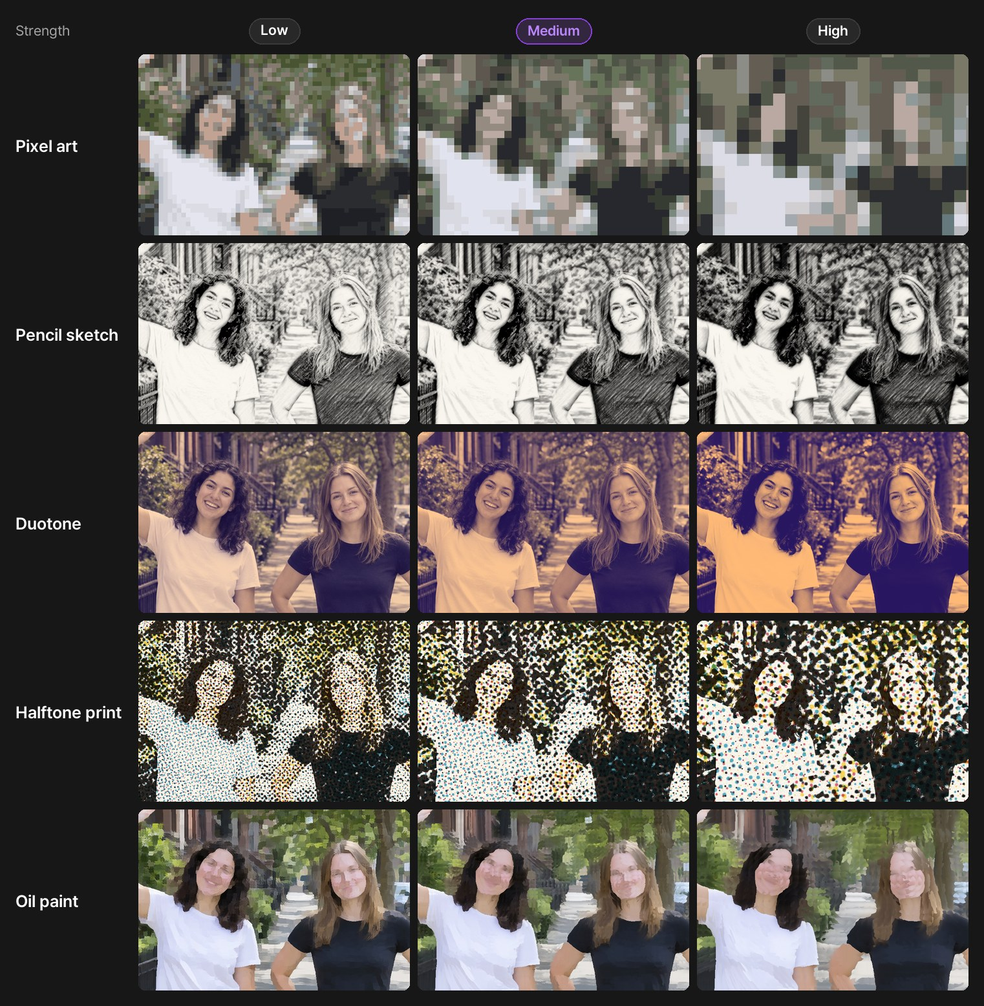
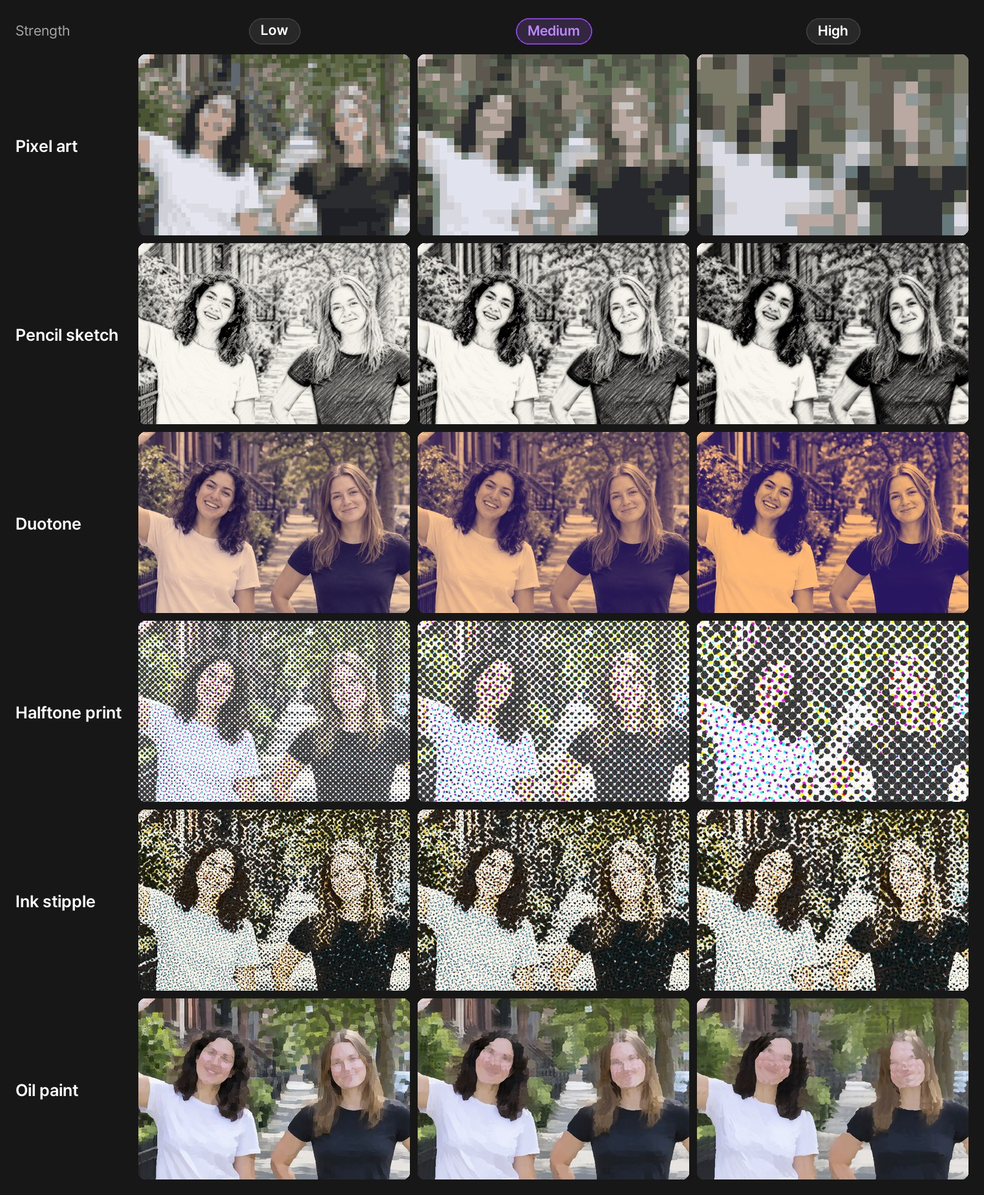
docs: README 그림을 1.2.0 결과로 다시 만듦 — 효과 여섯 가지(잉크 점묘 추가), 스크립트는 효과 목록을 manifest 에서 읽음
- hero · strength(ko · en) · compare.gif 를 같은 이름으로 다시 만듦
- README 의 "효과 다섯 가지" · "여섯 조각" 문장을 여섯 가지 · 일곱 조각으로 (ko · en)

Claude-Session: https://claude.ai/code/session_01MqMqamUHgGvP4ikDAYkvPx

diff --git a/docs/scripts/make_visuals.py b/docs/scripts/make_visuals.py
@@ -5,6 +5,7 @@
 언어별 그림(hero.jpg · strength.jpg)은 docs/<언어>/ 에, 글자 없는 움짤(compare.gif)은 두 언어가 같이 쓰도록 docs/ 에 쓴다.
 움짤은 언어와 상관없으니 한 번만 만들면 된다.
 """
+import json
 import math
 import os
 import sys
@@ -14,19 +15,22 @@ from PIL import Image, ImageDraw
 sys.path.insert(0, os.path.dirname(os.path.abspath(__file__)))
 import common as C  # noqa: E402
 
+ROOT = os.path.abspath(os.path.join(os.path.dirname(__file__), "..", ".."))
 work, docs, lang = sys.argv[1:4]
 fx_dir = os.path.join(work, "fx")
 photo_dir = os.path.join(work, "photos")
 out = os.path.join(docs, lang)
 os.makedirs(out, exist_ok=True)
 
-EFFECTS = ["pixel", "sketch", "duotone", "halftone", "oil"]
+#: 효과 차례 · 한국어 이름은 manifest.json 의 알약 그대로(효과를 더하거나 빼면 따라간다). 영어 이름은 README 영어판과 같게.
+_settings = {s["id"]: s for s in json.load(open(os.path.join(ROOT, "manifest.json"), encoding="utf-8"))["nodes"][0]["settings"]}
+EFFECTS = [o["value"] for o in _settings["effect"]["options"]]
 NAMES = {
-    "ko": {"original": "원본", "pixel": "픽셀아트", "sketch": "연필 스케치", "duotone": "듀오톤", "halftone": "망점 인쇄",
-           "oil": "유화", "low": "약하게", "medium": "보통", "high": "강하게", "strength": "세기"},
+    "ko": {"original": "원본", "strength": "세기",
+           **{o["value"]: o["label"] for o in _settings["effect"]["options"] + _settings["strength"]["options"]}},
     "en": {"original": "Original", "pixel": "Pixel art", "sketch": "Pencil sketch", "duotone": "Duotone",
-           "halftone": "Halftone print", "oil": "Oil paint", "low": "Low", "medium": "Medium", "high": "High",
-           "strength": "Strength"},
+           "halftone": "Halftone print", "stipple": "Ink stipple", "oil": "Oil paint", "low": "Low", "medium": "Medium",
+           "high": "High", "strength": "Strength"},
 }[lang]
 
 
@@ -38,28 +42,28 @@ def orig(photo):
     return Image.open(os.path.join(photo_dir, f"{photo}.jpg")).convert("RGB")
 
 
-# ── 대표 그림: 공원 사진 한 장을 여섯 조각으로(원본 + 효과 다섯, 세기 보통) ─────────────
+# ── 대표 그림: 공원 사진 한 장을 세로 조각으로(원본 + 효과마다 한 조각, 세기 보통) ─────────────
 def hero():
     src = orig("park")
     imgs = [src] + [res("park", e) for e in EFFECTS]
     names = ["original"] + EFFECTS
     y0, y1 = 96, 96 + 864  # 16:9 로 자른다
-    strip = src.width // 6
+    strip = src.width // len(imgs)
     gap, pad = 6, 24
-    canvas = Image.new("RGB", (src.width + gap * 5 + pad * 2, (y1 - y0) + pad * 2), C.BG)
+    canvas = Image.new("RGB", (strip * len(imgs) + gap * (len(imgs) - 1) + pad * 2, (y1 - y0) + pad * 2), C.BG)
     for i, (im, n) in enumerate(zip(imgs, names)):
         part = im.crop((i * strip, y0, (i + 1) * strip, y1))
-        part = C.label_on_image(part, NAMES[n], size=24, pos="mb", margin=20, active=(n != "original"))
+        part = C.label_on_image(part, NAMES[n], size=21, pos="mb", margin=18, active=(n != "original"))
         canvas.paste(part, (pad + i * (strip + gap), pad))
     canvas.save(os.path.join(out, "hero.jpg"), quality=88, optimize=True, progressive=True)
 
 
-# ── 세기 비교: 효과 5 × 약하게 · 보통 · 강하게(두 친구 사진의 얼굴 쪽) ─────────────────
+# ── 세기 비교: 효과마다 약하게 · 보통 · 강하게(두 친구 사진의 얼굴 쪽) ─────────────────
 def strength():
     box = (150, 120, 870, 600)  # friends.jpg 두 얼굴과 윗몸
     tw, th, label_w = 420, 280, 190
     gap, pad, head = 12, 24, 60
-    canvas = Image.new("RGB", (pad * 2 + label_w + tw * 3 + gap * 2, pad + head + th * 5 + gap * 4 + pad), C.BG)
+    canvas = Image.new("RGB", (pad * 2 + label_w + tw * 3 + gap * 2, pad + head + th * len(EFFECTS) + gap * (len(EFFECTS) - 1) + pad), C.BG)
     d = ImageDraw.Draw(canvas)
     d.text((pad, pad + 10), NAMES["strength"], font=C.font(22, "Regular"), fill=C.MUTED)
     for j, s in enumerate(["low", "medium", "high"]):

diff --git a/docs/scripts/make_results.py b/docs/scripts/make_results.py
@@ -3,9 +3,10 @@
 사용(저장소 루트에서, nodes/requirements.in 의 패키지를 깐 파이썬으로):
     python -I -B docs/scripts/make_results.py <작업 폴더>
 예제 사진 세 장(park · friends · desk, GPT Image 2.5 로 만든 사진)은 Ultralytics YOLO 예시 플러그인 저장소의 cards/ 에서
-받는다(처음 한 번) → <작업>/photos/. 사진마다 효과 5가지 × 세기 3가지를 돌려 <작업>/fx/<사진>/<효과>-<세기>-effect.png 로 쓴다.
+받는다(처음 한 번) → <작업>/photos/. 사진마다 manifest 의 효과 전부 × 세기 3가지를 돌려 <작업>/fx/<사진>/<효과>-<세기>-effect.png 로 쓴다.
 """
 import importlib.util
+import json
 import os
 import sys
 import urllib.request
@@ -14,8 +15,10 @@ ROOT = os.path.abspath(os.path.join(os.path.dirname(__file__), "..", ".."))
 work = os.path.abspath(sys.argv[1])
 PHOTOS = ("park", "friends", "desk")
 CARDS = "https://raw.githubusercontent.com/promboard-app/yolo/e304aa1/cards/{}.jpg"
-EFFECTS = ("pixel", "sketch", "duotone", "halftone", "oil")
-STRENGTHS = ("low", "medium", "high")
+#: 효과 · 세기 — manifest.json 의 알약 값을 그대로 쓴다(효과를 더하거나 빼면 따라간다)
+_settings = {s["id"]: s for s in json.load(open(os.path.join(ROOT, "manifest.json"), encoding="utf-8"))["nodes"][0]["settings"]}
+EFFECTS = tuple(o["value"] for o in _settings["effect"]["options"])
+STRENGTHS = tuple(o["value"] for o in _settings["strength"]["options"])
 
 photos = os.path.join(work, "photos")
 os.makedirs(photos, exist_ok=True)
